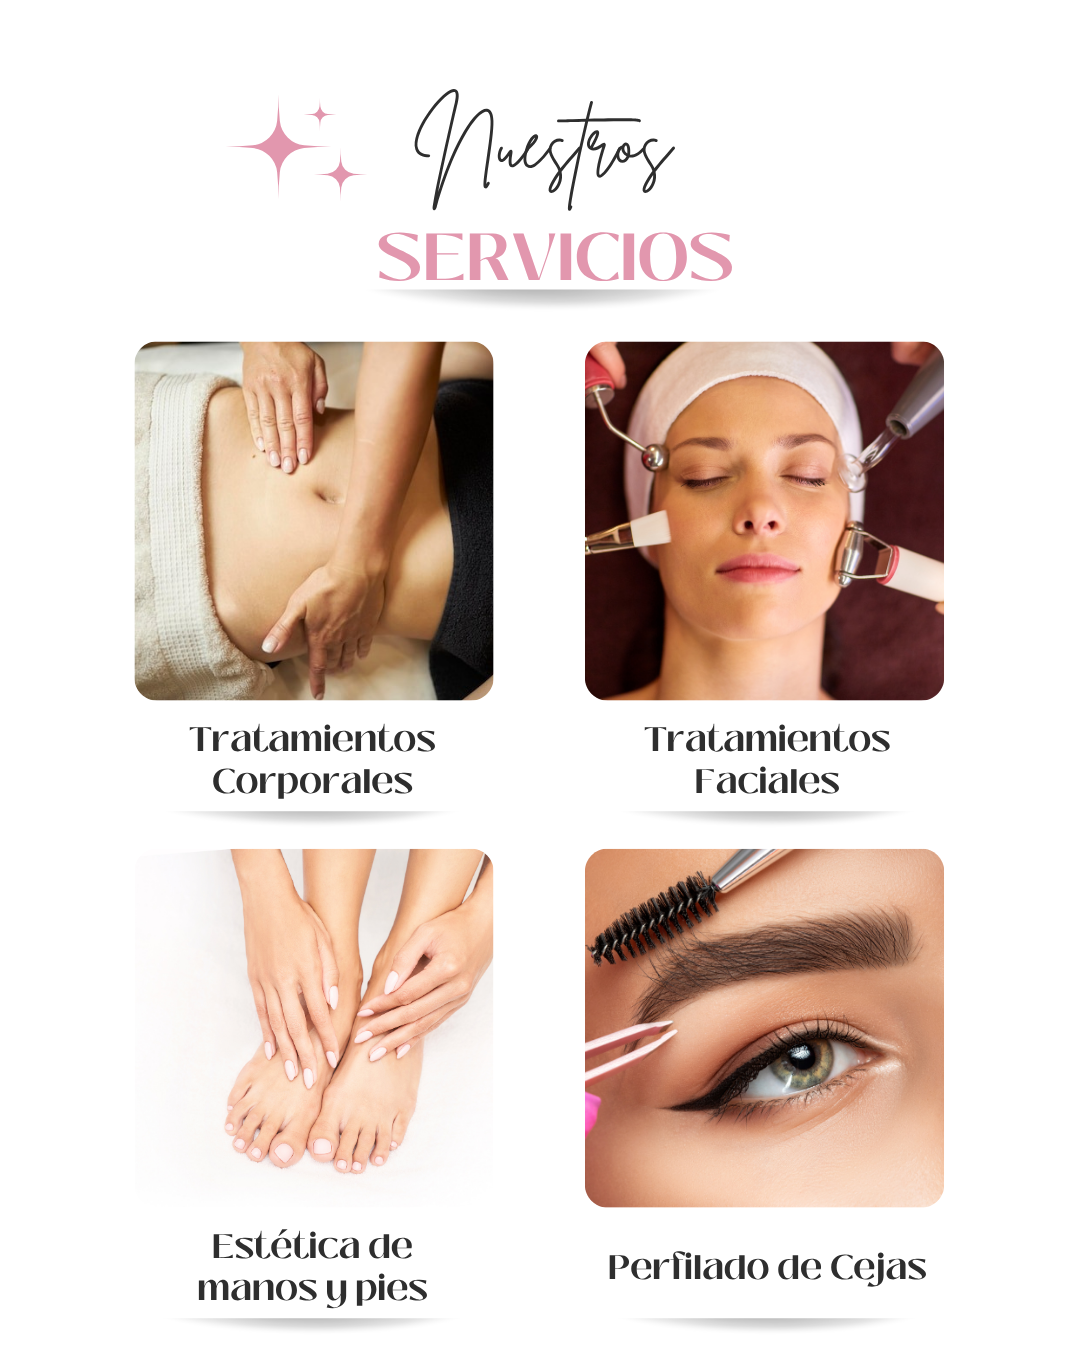
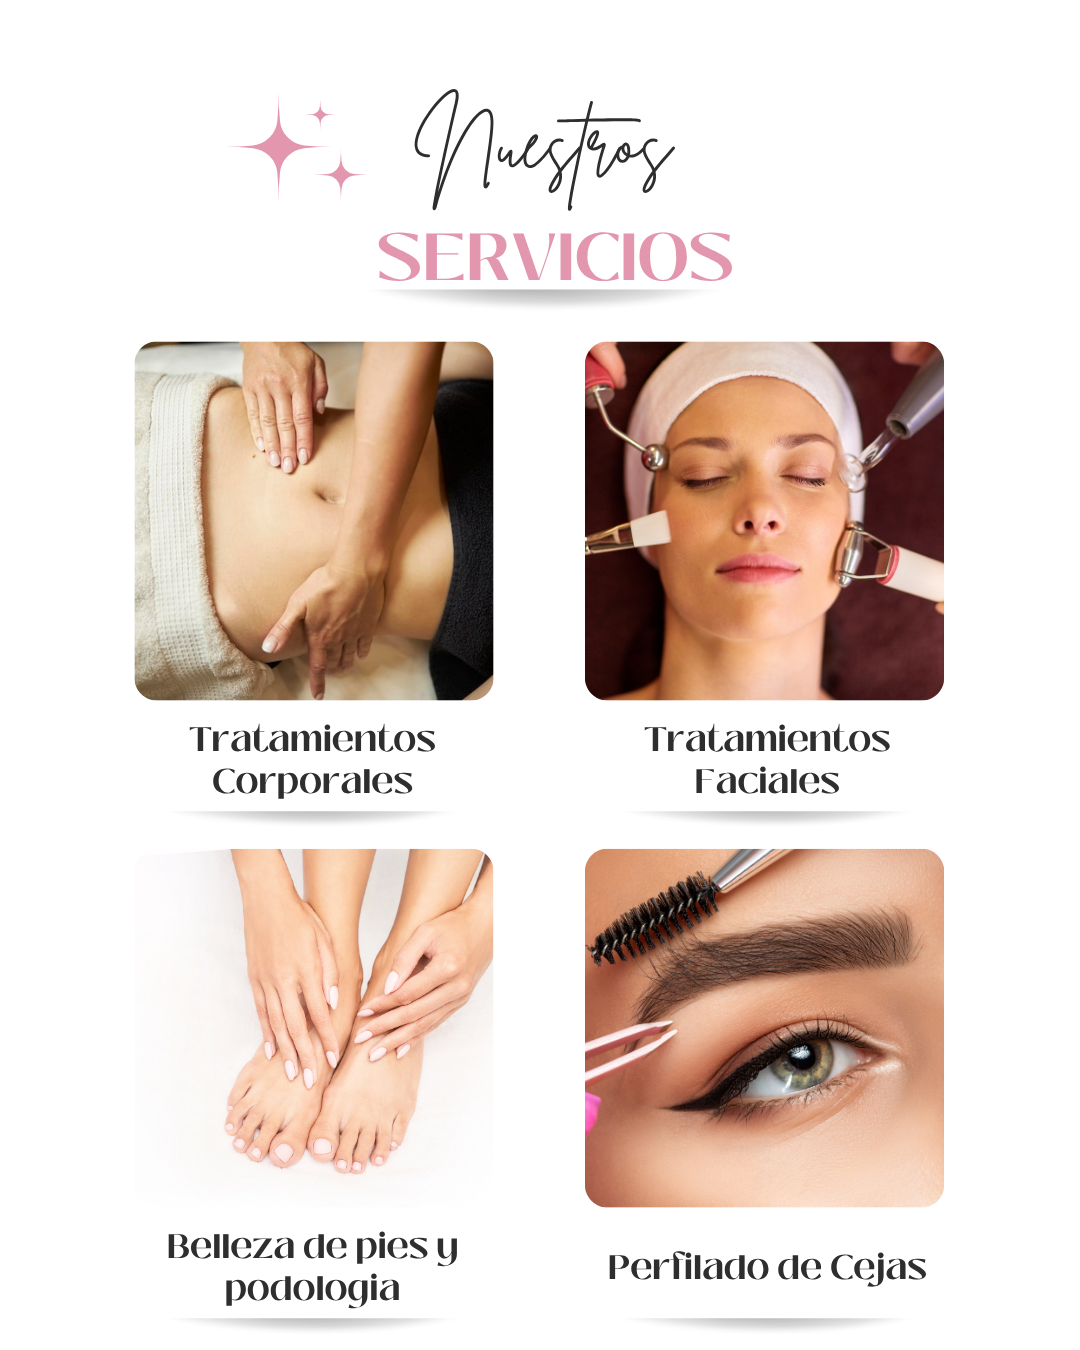
cambio de promos y de info en inicio, spa y estetica html

Changed region(s): [[0.1528, 0.9022, 0.4278, 0.9644]]

diff --git a/catalogo.html b/catalogo.html
@@ -660,18 +660,18 @@
                 </p>
 
                 <div style="display: grid; grid-template-columns: repeat(auto-fit, minmax(300px, 1fr)); gap: 30px;">
-                    <!-- mujer 1 -->
+                    <!-- Pascuas 1 -->
                     <div class="promo-card" style="position: relative;">
-                        <div class="featured-badge">🌺 Todo Marzo</div>
-                        <img src="imagenes/spa/promos/mujer-1.jpg" alt="promo mujer 1" class="promo-image"
+                        <!-- <div class="featured-badge">Pascuas 🐰</div> -->
+                        <img src="imagenes/spa/promos/promo-pascuas-1.jpg" alt="promo pascuas 1" class="promo-image"
                             loading="lazy">
                         <div style="padding: 30px;">
-                            <h3 style="font-size: 1.8rem; margin-bottom: 15px; color: var(--dark);">Promo Mujer 1</h3>
+                            <h3 style="font-size: 1.8rem; margin-bottom: 15px; color: var(--dark);">Promo Pascuas 1</h3>
                             <p style="color: #666; margin-bottom: 20px; line-height: 1.6;">
-                                Mes de la Mujer en Anandi!! 🎁🌹
+                                Especial Pascuas en Anandi!! 🎁🐰
                             </p>
                             <div style="display: flex; justify-content: space-between; align-items: center;">
-                                <a href="https://wa.me/5492615104019?text=Hola! Me interesa la promo Mujer 1."
+                                <a href="https://wa.me/5492615104019?text=Hola! Me interesa la promo pascuas 1."
                                     class="whatsapp-btn" target="_blank">
                                     <i class="fa-brands fa-whatsapp"></i> Reservar
                                 </a>
@@ -679,18 +679,18 @@
                         </div>
                     </div>
 
-                    <!-- mujer 2 -->
+                    <!-- Pascuas 2 -->
                     <div class="promo-card" style="position: relative;">
-                        <div class="featured-badge">🌺 Todo Marzo</div>
-                        <img src="imagenes/spa/promos/mujer-2.jpg" alt="promo mujer 2" class="promo-image"
+                        <!-- <div class="featured-badge">Pascuas 🐰</div> -->
+                        <img src="imagenes/spa/promos/promo-pascuas-2.jpg" alt="promo pascuas 2" class="promo-image"
                             loading="lazy">
                         <div style="padding: 30px;">
-                            <h3 style="font-size: 1.8rem; margin-bottom: 15px; color: var(--dark);">Promo Mujer 2</h3>
+                            <h3 style="font-size: 1.8rem; margin-bottom: 15px; color: var(--dark);">Promo Pascuas 2</h3>
                             <p style="color: #666; margin-bottom: 20px; line-height: 1.6;">
-                                Mes de la Mujer en Anandi!! 🎁🌹
+                                Especial Pascuas en Anandi!! 🎁🐰
                             </p>
                             <div style="display: flex; justify-content: space-between; align-items: center;">
-                                <a href="https://wa.me/5492615104019?text=Hola! Me interesa la promo Mujer 2."
+                                <a href="https://wa.me/5492615104019?text=Hola! Me interesa la promo pascuas 2."
                                     class="whatsapp-btn" target="_blank">
                                     <i class="fa-brands fa-whatsapp"></i> Reservar
                                 </a>
@@ -699,7 +699,7 @@
                     </div>
 
                     <!-- Promo Bienestar -->
-                    <div class="promo-card" style="position: relative;">
+                    <!-- <div class="promo-card" style="position: relative;">
                         <div class="featured-badge">⛱ Últimos días</div>
                         <img src="imagenes/spa/promos/promo-bienestar.jpg" alt="promo bienestar" class="promo-image"
                             loading="lazy">
@@ -715,7 +715,7 @@
                                 </a>
                             </div>
                         </div>
-                    </div>
+                    </div> -->
 
                     <!-- Promo masaje premium -->
                     <div class="promo-card" style="position: relative;">
@@ -1230,18 +1230,18 @@
 
                 <div style="display: grid; grid-template-columns: repeat(auto-fit, minmax(300px, 1fr)); gap: 30px;">
 
-                    <!-- mujer 3 -->
+                    <!-- Pascuas 3 -->
                     <div class="promo-card" style="position: relative;">
-                        <div class="featured-badge">🌺 Día de la Mujer</div>
-                        <img src="imagenes/estetica/promos/mujer-3.jpg" alt="promo mujer 3" class="promo-image"
+                        <!-- <div class="featured-badge">Pascuas</div> -->
+                        <img src="imagenes/estetica/promos/promo-pascuas-3.jpg" alt="promo pascuas 3" class="promo-image"
                             loading="lazy">
                         <div style="padding: 30px;">
-                            <h3 style="font-size: 1.8rem; margin-bottom: 15px; color: var(--dark);">Promo Mujer 3</h3>
+                            <h3 style="font-size: 1.8rem; margin-bottom: 15px; color: var(--dark);">Promo Pascuas 3</h3>
                             <p style="color: #666; margin-bottom: 20px; line-height: 1.6;">
-                                Mes de la Mujer en Anandi!! 🎁🌹
+                                Especial Pascuas en Anandi!! 🎁🐰
                             </p>
                             <div style="display: flex; justify-content: space-between; align-items: center;">
-                                <a href="https://wa.me/5492615104019?text=Hola! Me interesa la promo Mujer 3."
+                                <a href="https://wa.me/5492615104019?text=Hola! Me interesa la promo pascuas 3."
                                     class="whatsapp-btn" target="_blank">
                                     <i class="fa-brands fa-whatsapp"></i> Reservar
                                 </a>

diff --git a/estetica.html b/estetica.html
@@ -95,9 +95,8 @@
                 <div class="hero-content">
                     <h1 class="hero-title">Servicios de Estética</h1>
                     <p class="hero-description">En nuestra estética ofrecemos una amplia variedad de servicios.
-                        Tratamientos corporales, tratamientos faciales, estética de manos y pies, cejas, bienestar y
-                        relajación y mucho mas..
-                        ¡Reservá ahora y descubre nuestros paquetes!</p>
+                        Tratamientos corporales, tratamientos faciales, tratamientos capilares, podologia, belleza de pies, cejas, bienestar y mucho mas..
+                        ¡Pedí tu cita ahora!</p>
                     <p class="hero-text"> <i class="fa-solid fa-arrow-down"></i> Mira nuestro catalogo <i
                             class="fa-solid fa-arrow-down"></i>
                     </p><br><br>

diff --git a/index.html b/index.html
@@ -132,7 +132,7 @@
                     <h2 class="spa-title titleCardDos">Servicios Estetica</h2>
                     <ul class="spa-items itemsCardDos">
                         <li class="spa-item itemCardDos">Tratamientos corporales y faciales</li>
-                        <li class="spa-item itemCardDos">Estetica de manos y pies</li>
+                        <li class="spa-item itemCardDos">Belleza de pies</li>
                         <li class="spa-item itemCardDos">Podologia y Reflexologia</li>
                         <li class="spa-item itemCardDos">Masajes</li>
                         <li class="spa-item itemCardDos">Perfilado de cejas</li>
